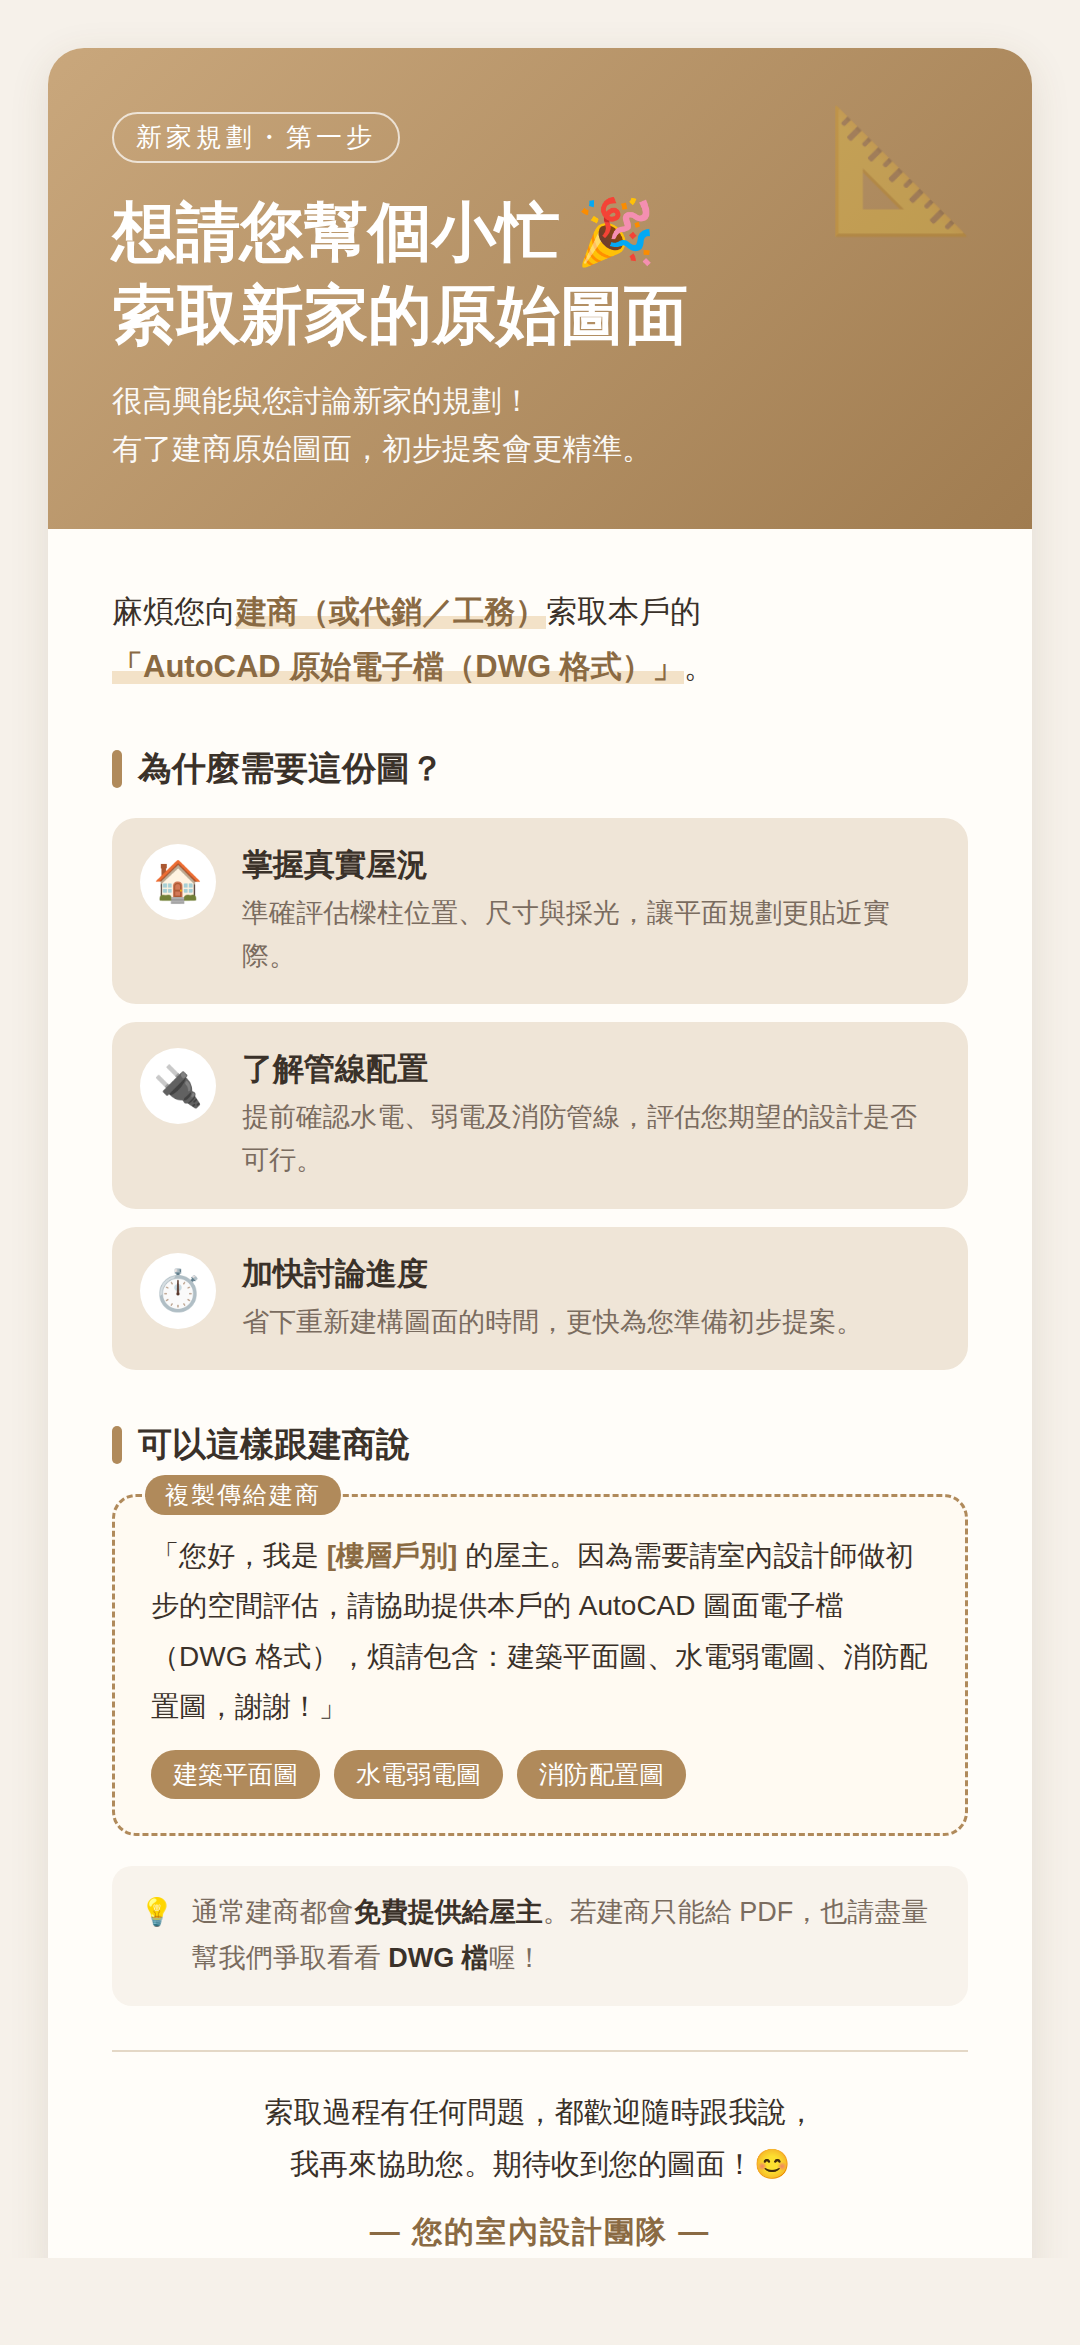
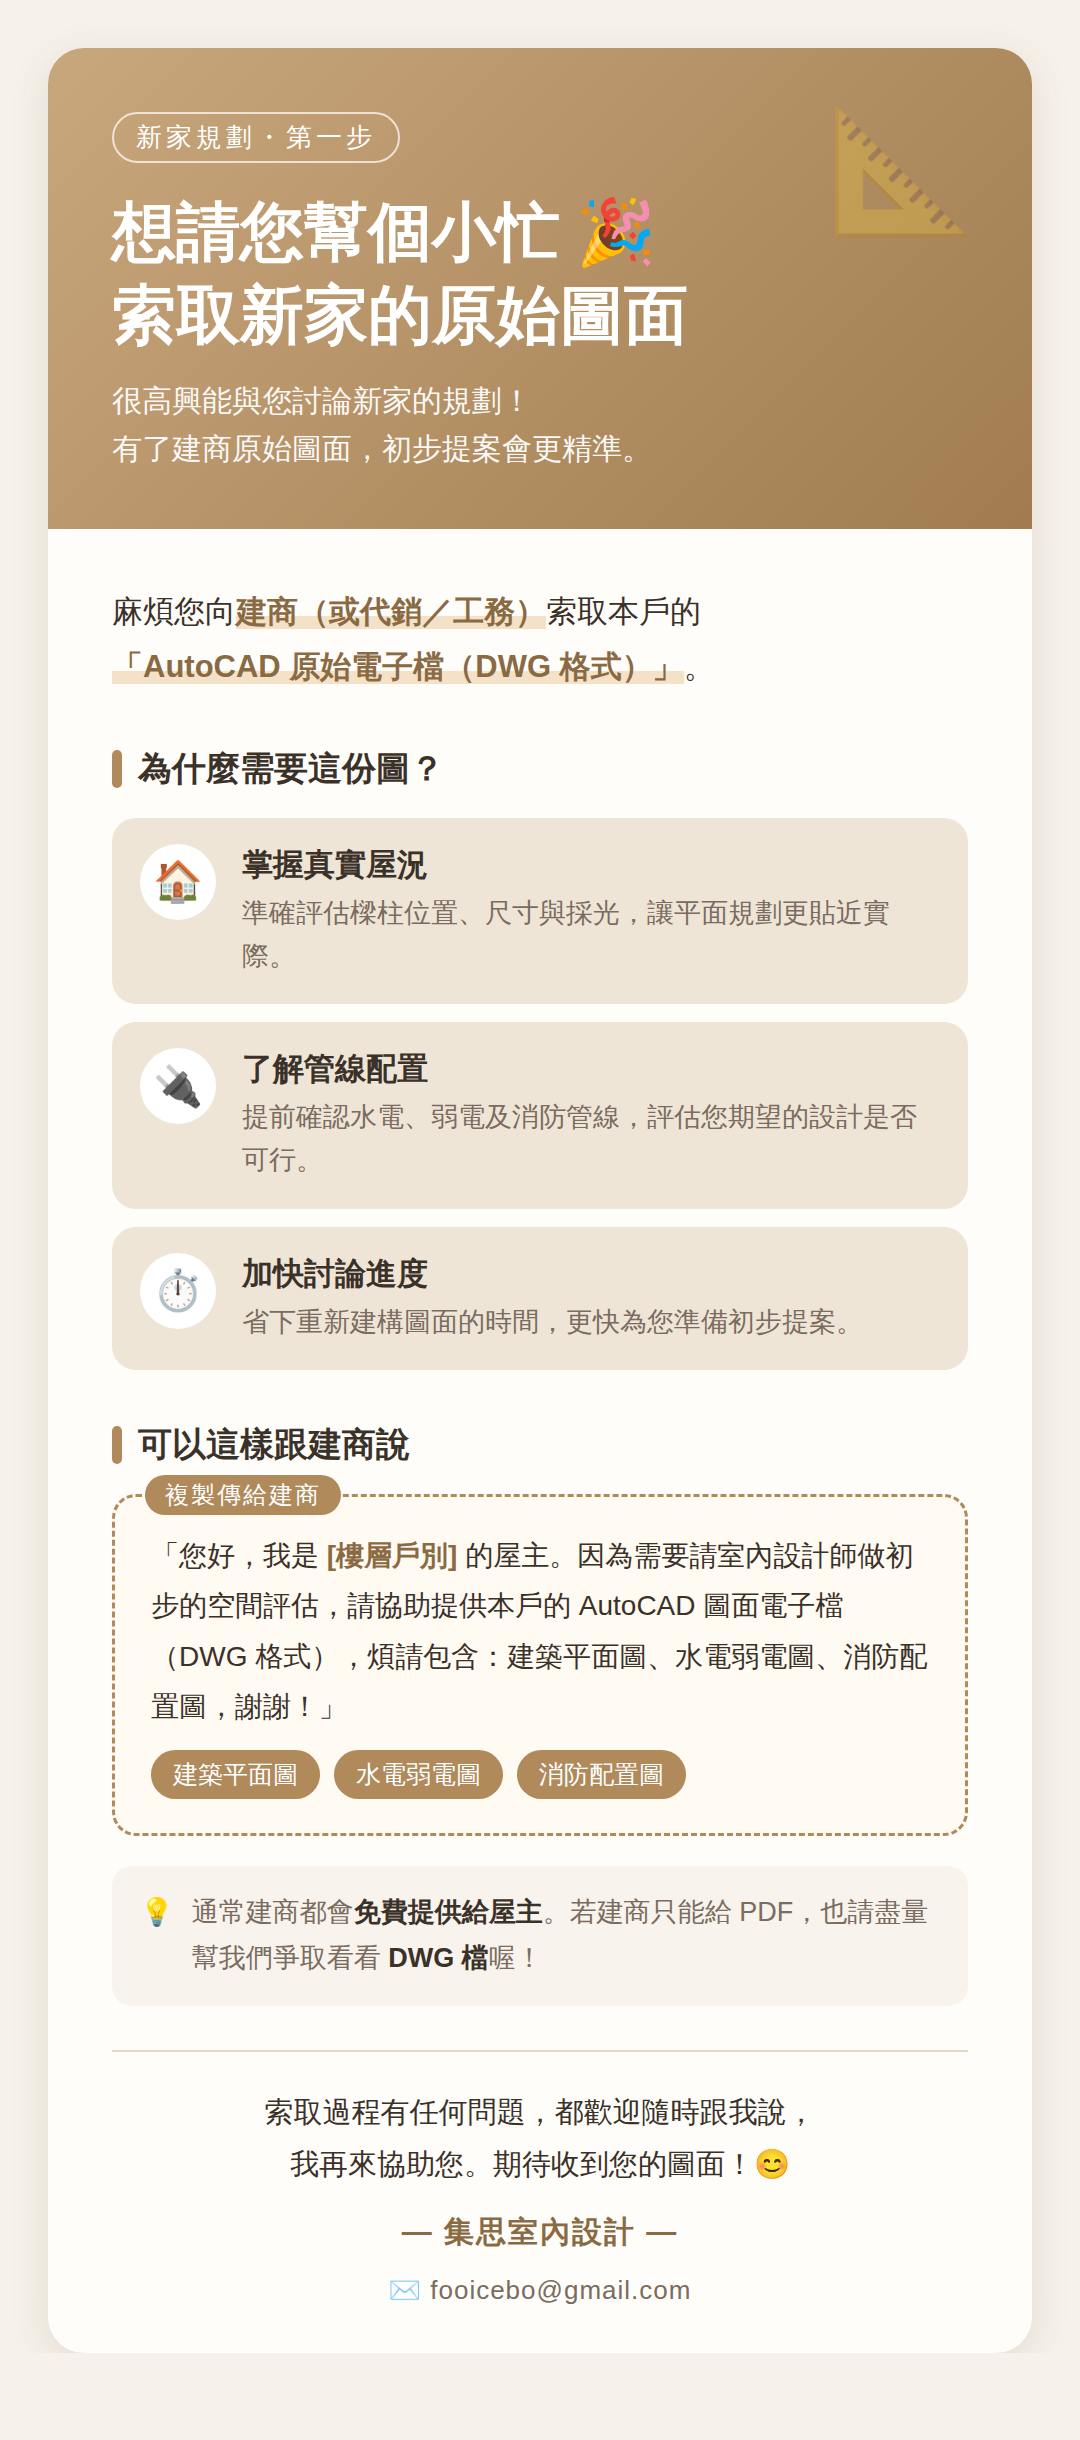
LINE 小卡署名改為集思室內設計並加上聯絡信箱
Claude-Session: https://claude.ai/code/session_01LduqQTZRT9V3sN4qUQhULy

Changed region(s): [[0.0306, 0.0311, 0.9472, 0.965], [0.7639, 0.7783, 0.8556, 0.8405], [0.825, 0.0623, 0.8556, 0.0934]]

diff --git a/LINE小卡/新客人_索取DWG圖面小卡.html b/LINE小卡/新客人_索取DWG圖面小卡.html
@@ -32,6 +32,7 @@ h2::before{content:"";width:10px;height:38px;border-radius:5px;background:var(--
 .note b{color:var(--ink)}
 .foot{border-top:2px solid var(--line);margin-top:44px;padding-top:34px;text-align:center;font-size:29px;line-height:1.8}
 .foot .sig{margin-top:14px;color:var(--acc2);font-weight:700;font-size:30px;letter-spacing:2px}
+.foot .mail{margin-top:8px;font-size:26px;color:var(--sub);letter-spacing:1px}
 </style></head><body>
 <div class="card">
   <div class="hero">
@@ -57,7 +58,8 @@ h2::before{content:"";width:10px;height:38px;border-radius:5px;background:var(--
     <div class="note"><div>💡</div><div>通常建商都會<b>免費提供給屋主</b>。若建商只能給 PDF，也請盡量幫我們爭取看看 <b>DWG 檔</b>喔！</div></div>
 
     <div class="foot">索取過程有任何問題，都歡迎隨時跟我說，<br>我再來協助您。期待收到您的圖面！😊
-      <div class="sig">— 您的室內設計團隊 —</div></div>
+      <div class="sig">— 集思室內設計 —</div>
+      <div class="mail">✉ fooicebo@gmail.com</div></div>
   </div>
 </div>
 </body></html>

diff --git a/LINE小卡/新客人_LINE訊息文字.md b/LINE小卡/新客人_LINE訊息文字.md
@@ -34,11 +34,11 @@
 
 | 檔案 | 內容摘要 |
 |---|---|
-| `新客人_索取DWG圖面小卡.png` | 1080×2345 直式圖卡：請求說明、三大好處、給建商的話、PDF/DWG 提醒、結語 |
-| `新客人_索取DWG圖面小卡.html` | 圖卡原始檔，可修改文字（例如署名改成公司名稱）後重新截圖 |
+| `新客人_索取DWG圖面小卡.png` | 1080×2440 直式圖卡：請求說明、三大好處、給建商的話、PDF/DWG 提醒、結語、署名（集思室內設計＋信箱） |
+| `新客人_索取DWG圖面小卡.html` | 圖卡原始檔，可修改文字（例如署名、信箱）後重新截圖 |
 
 ## 待確認
 
-- 圖卡底部署名目前為「您的室內設計團隊」，是否要改成公司名稱（例如集思室內設計）或您的名字？
+- 無（署名已改為「集思室內設計」並加上信箱 fooicebo@gmail.com）
 
 *整理工具：Claude Code｜整理日期：2026-10-02*
